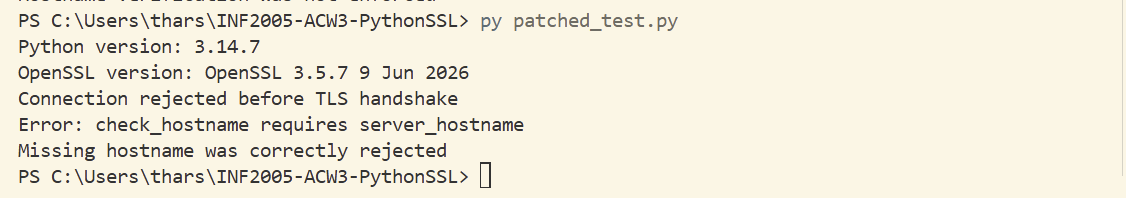
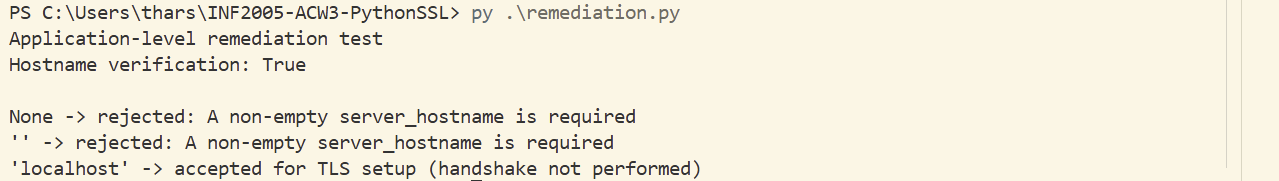
Add TLS vulnerability tests and remediation evidence

diff --git a/exploit.py b/exploit.py
@@ -1,61 +1,85 @@
 
+"""Local CVE-2026-19553 demonstration. Use only against 127.0.0.1."""
+
+import argparse
 import socket
 import ssl
 import sys
+from pathlib import Path
 
 HOST = "127.0.0.1"
 PORT = 8443
+CA_FILE = Path(__file__).resolve().parent / "certs" / "ca.crt"
 
-print("Python version:", sys.version)
-print("OpenSSL version:", ssl.OPENSSL_VERSION)
 
-# Trust only our test certificate authority
-context = ssl.create_default_context(
-    cafile="certs/ca.crt"
-)
+def run_test(server_hostname):
+    print("Python:", sys.version.split()[0])
+    print("OpenSSL:", ssl.OPENSSL_VERSION)
+    print("server_hostname:", repr(server_hostname))
 
-context.check_hostname = True
+    context = ssl.create_default_context(cafile=str(CA_FILE))
+    context.check_hostname = True
 
-incoming = ssl.MemoryBIO()
-outgoing = ssl.MemoryBIO()
+    print("check_hostname:", context.check_hostname)
+    print("verify_mode:", context.verify_mode)
 
-try:
-    # Deliberately omit the hostname
-    tls_object = context.wrap_bio(
-        incoming,
-        outgoing,
-        server_side=False,
-        server_hostname=None
+    incoming = ssl.MemoryBIO()
+    outgoing = ssl.MemoryBIO()
+
+    try:
+        tls_object = context.wrap_bio(
+            incoming,
+            outgoing,
+            server_side=False,
+            server_hostname=server_hostname
+        )
+
+        with socket.create_connection((HOST, PORT), timeout=5) as sock:
+            sock.settimeout(5)
+
+            while True:
+                try:
+                    tls_object.do_handshake()
+                    break
+                except ssl.SSLWantReadError:
+                    pass
+
+                while outgoing.pending:
+                    sock.sendall(outgoing.read())
+
+                data = sock.recv(16384)
+
+                if not data:
+                    raise ConnectionError(
+                        "Server closed connection during handshake"
+                    )
+
+                incoming.write(data)
+
+            print("RESULT: TLS handshake successful")
+            print("Peer certificate:", tls_object.getpeercert())
+
+            if server_hostname is None:
+                print("WARNING: Missing hostname was accepted")
+            else:
+                print("Hostname supplied; certificate verified against it")
+
+    except (ssl.SSLError, ValueError, OSError) as error:
+        print("RESULT: TLS connection rejected")
+        print("Error:", type(error).__name__, str(error))
+
+
+if __name__ == "__main__":
+    parser = argparse.ArgumentParser()
+
+    parser.add_argument(
+        "--hostname",
+        choices=["missing", "localhost", "attacker.test"],
+        default="missing"
     )
 
-    with socket.create_connection((HOST, PORT), timeout=5) as sock:
-        sock.settimeout(5)
+    args = parser.parse_args()
 
-        # Perform TLS handshake
-        while True:
-            try:
-                tls_object.do_handshake()
-                break
-
-            except ssl.SSLWantReadError:
-                pass
-
-            # Send pending TLS data
-            while outgoing.pending:
-                sock.sendall(outgoing.read())
-
-            # Receive TLS data from server
-            data = sock.recv(16384)
-
-            if not data:
-                raise ConnectionError("Server closed connection")
-
-            incoming.write(data)
-
-        print("TLS handshake successful!")
-        print("Peer certificate:", tls_object.getpeercert())
-        print("Hostname verification was not enforced")
-
-except (ssl.SSLError, ValueError, OSError) as error:
-    print("TLS connection rejected")
-    print("Error:", error)
+    run_test(
+        None if args.hostname == "missing" else args.hostname
+    )

diff --git a/patched_test.py b/patched_test.py
@@ -1,41 +1,29 @@
+"""Test the actual CPython SSLContext.wrap_bio() behavior."""
 
 import ssl
 import sys
+from pathlib import Path
+
+CA_FILE = Path(__file__).resolve().parent / "certs" / "ca.crt"
 
 print("Python version:", sys.version.split()[0])
 print("OpenSSL version:", ssl.OPENSSL_VERSION)
 
-# Load our trusted certificate authority
-context = ssl.create_default_context(
-    cafile="certs/ca.crt"
-)
-
-# Enable hostname verification
+context = ssl.create_default_context(cafile=str(CA_FILE))
 context.check_hostname = True
 
-incoming = ssl.MemoryBIO()
-outgoing = ssl.MemoryBIO()
-
-# Deliberately omit the hostname
-server_hostname = None
-
 try:
-    # Simulate the patched hostname validation
-    if context.check_hostname and server_hostname is None:
-        raise ValueError(
-            "check_hostname requires server_hostname"
-        )
-
-    tls_object = context.wrap_bio(
-        incoming,
-        outgoing,
+    context.wrap_bio(
+        ssl.MemoryBIO(),
+        ssl.MemoryBIO(),
         server_side=False,
-        server_hostname=server_hostname
+        server_hostname=None
     )
 
-    print("SSLObject created successfully")
-
 except ValueError as error:
-    print("Connection rejected before TLS handshake")
+    print("RESULT: Actual runtime rejected missing hostname")
     print("Error:", error)
-    print("Missing hostname was correctly rejected")
+
+else:
+    print("RESULT: Actual runtime accepted missing hostname")
+    print("WARNING: No built-in rejection observed")

diff --git a/remediation.py b/remediation.py
@@ -1,0 +1,53 @@
+
+"""Application-level mitigation for CVE-2026-19553."""
+
+import ssl
+from pathlib import Path
+
+CA_FILE = Path(__file__).resolve().parent / "certs" / "ca.crt"
+
+
+def secure_wrap_bio(context, incoming, outgoing, server_hostname):
+
+    # Reject missing or empty hostnames
+    if not isinstance(server_hostname, str) or not server_hostname.strip():
+        raise ValueError("A non-empty server_hostname is required")
+
+    # Ensure hostname verification is enabled
+    if not context.check_hostname:
+        raise ValueError("Hostname verification must be enabled")
+
+    return context.wrap_bio(
+        incoming,
+        outgoing,
+        server_side=False,
+        server_hostname=server_hostname
+    )
+
+
+if __name__ == "__main__":
+
+    context = ssl.create_default_context(cafile=str(CA_FILE))
+    context.check_hostname = True
+
+    print("Application-level remediation test")
+    print("Hostname verification:", context.check_hostname)
+    print()
+
+    for hostname in (None, "", "localhost"):
+
+        try:
+            secure_wrap_bio(
+                context,
+                ssl.MemoryBIO(),
+                ssl.MemoryBIO(),
+                hostname
+            )
+
+            print(
+                repr(hostname),
+                "-> accepted for TLS setup (handshake not performed)"
+            )
+
+        except ValueError as error:
+            print(repr(hostname), "-> rejected:", error)
